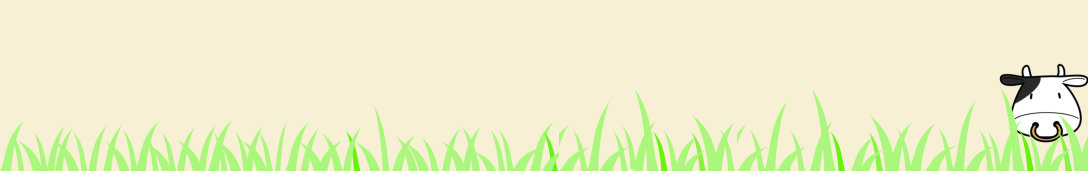
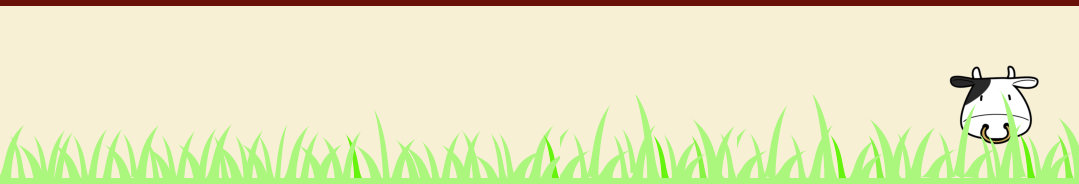
complete the welcome page

Changed region(s): [[0.0, 0.3509, 1.0, 1.0], [0.0, 0.0, 1.0, 0.0585]]

diff --git a/src/main/webapp/css/style.css b/src/main/webapp/css/style.css
@@ -1,45 +1,125 @@
+
 body { font-family: Arial, Helvetica, sans-serif;background: #f6e4a6;}
 '
 body, div, h1, h2, h3, h4, h5, h6, p, ul, img {margin:0px; padding:0px; }
-#container {
-    width: 900px;
-    margin: 0 auto; 
-}
-#main .container {
-    background-color: #f8f0d5;   
-}
-#main {background-color: #f8f0d5; }
+
+
+#main {background-color: #f8f0d5; 
+    width: 1096px;
+    margin-left: 240px; }
 #header {
     padding-top: 40px; 
 }
 #header {
-    background: url(images/header.jpg) no-repeat;
+    
     height: 200px;
+    width: 1081px;
+    float: left;
+    background: #4b100b; 
+}
+#logo {background: url(header.jpg) no-repeat;
+    height: 200px;
+    width: 1096px;
+    float: left; 
+    margin-top: -40px;}
+}
+
+ 
+.clearfix:after {
+    display:block;
+    clear:both;
+}
+ 
+/*----- Menu Outline -----*/
+.menu-wrap {
+    width:1081;
+    box-shadow:0px 1px 3px rgba(0,0,0,0.2);
+    background: #4b100b;
+}
+ 
+.menu {
+    width:1081px;
+    margin:0px auto;
+}
+ 
+.menu li {
+    float: left; 
+    padding-left: 100px;
+    list-style:none;
+    
+}
+ 
+.menu a {
+    transition:all linear 0.15s;
+    color: #f8f0d5;
+}
+ 
+.menu li:hover > a, .menu .current-item > a {
+    text-decoration:none;
+    color:#8e342c;
+}
+ 
+.menu .arrow {
+    font-size:11px;
+    line-height:0%;
+}
+ 
+/*----- Top Level -----*/
+.menu > ul > li {
+    float:left;
+    display:inline-block;
+    position:relative;
+    
+}
+ 
+.menu > ul > li > a {
+    padding:10px 40px;
+    display:inline-block;
+    text-shadow:0px 1px 0px rgba(0,0,0,0.4);
+}
+ 
+.menu > ul > li:hover > a, .menu > ul > .current-item > a {
+    background:#f57a6f;
+}
+ 
+/*----- Bottom Level -----*/
+.menu li:hover .sub-menu {
+    z-index:1;
+    opacity:1;
+}
+ 
+.sub-menu {
+    width:160%;
+    padding:5px 0px;
+    position:absolute;
+    top:100%;
+    left:0px;
+    z-index:-1;
+    opacity:0;
+    transition:opacity linear 0.15s;
+    box-shadow:0px 1px 2px rgba(0,0,0,0.2);
+    background:#4b100b;
+}
+ 
+.sub-menu li {
+    display:block;
+    font-size:16px;
+}
+ 
+.sub-menu li a {
+    padding:5px 20px;
+    display:block;
+}
+ 
+.sub-menu li a:hover, .sub-menu .current-item a {
+    background:#f57a6f;
+}
+#content {
+    margin-left: 70px;
+    height: 0 auto;
     width: 900px;
     float: left; 
 }
-
-#bar {background-color: #4b100b;
- }
-
-ul#menu {
-    list-style: none; 
-}
- 
-ul#menu li a {
-    font-size: 30px;
-    color: #f8f0d5;
-    text-decoration: none; 
-}
-ul#menu li {
-    float: left; 
-}
-ul#menu li {
-    float: left;
-    padding-left: 30px;
-    padding-right: 75px; 
-}
-#content
 #content h1 {
     font-size: 36px;
     color: #691008; 
@@ -71,10 +151,15 @@ ul#menu li {
     font-weight: bold;
     text-decoration: none; 
 }
+#content a:hover { color:#c63f33;
+}
 #footer {
-    background: url(images/footer.jpg) repeat-x;
+    background: url(footer.jpg) repeat-x;
+    height: 200px;
+    width: 1096px;
+	margin-left: 240px;
     padding-top: 20px;
-    padding-bottom:60px;
-    margin-top: 40px;
-    color: #fff; 
+    margin-top: 700px;
+    color: #4b100b; 
+    text-align: center;
 } 

diff --git a/src/main/webapp/WEB-INF/pages/welcome.html b/src/main/webapp/WEB-INF/pages/welcome.html
@@ -14,33 +14,42 @@
 </head>
 <body>
 <div id="main">
-<div class="container">
-        <div id="header"><div id="logo"><img src="header.jpg"/></div>
-		<div id="bar">
-		<ul id="menu">
-        <li><a href="#">Home</a></li>
-        <li><a href="#">About</a></li>
-        <li><a href="#">Portfolio</a></li>
-        <li><a href="#">Contact</a></li>
-    </ul>
-	</div>
+        <div id="header"><div id="logo"></div>
+<div class="menu-wrap">
+    <nav class="menu">
+        <ul class="clearfix">
+            <li><a href="#">Home</a></li>
+           <li><a href="#">About</a></li>
+            <li>
+                <a href="#">Login<span class="arrow">&#9660;</span></a>
+ 
+                <ul class="sub-menu">
+                    <li><a href="#">New Account</a></li>
+                    <li><a href="#">Forgot Password</a></li>
+                </ul>
+            </li>
+            <li><a href="#">Contact</a></li>
+            
+        </ul>
+    </nav>
+</div>
+<div style="clear:both"></div>
         </div><!--end header -->
-	<div id="content">	
-<p>
+<div id="content">	
 
 <h1>Virtual COW</h1>
 
 <h2>Welcome</h2>
 
 <p>Welcome. --Virtual Cow</p>
+<p>oin the newsletter to get the best articles, tutorials and exclusive freebies every two weeks. As a subscriber you get an eBook on productivity, a WordPress theme and a social sharing button PSD. Find out more 
+oin the newsletter to get the best articles, tutorials and exclusive freebies every two weeks. As a subscriber you get an eBook on productivity, a WordPress theme and a social sharing button PSD. Find out more 
+oin the newsletter to get the best articles, tutorials and exclusive freebies every two weeks. As a subscriber you get an eBook on productivity, a WordPress theme and a social sharing button PSD. Find out more 
+oin the newsletter to get the best articles, tutorials and exclusive freebies every two weeks. As a subscriber you get an eBook on productivity, a WordPress theme and a social sharing button PSD. Find out more </p>
 </div><!--end content-->
-<div id="login">
-<a href="?from=welcome&to=login">New Account / Login / Forgot Password</a>
-</div>
 </div><!--end main-->
-<div id="footer">
-<div class="container">
-    </div><!--end footer container-->
-    </div><!--end footer-->
+<br/>
+<div id="footer"><p>Copyright Policy</p>
+</div><!--end footer-->
 </body>
 </html>
